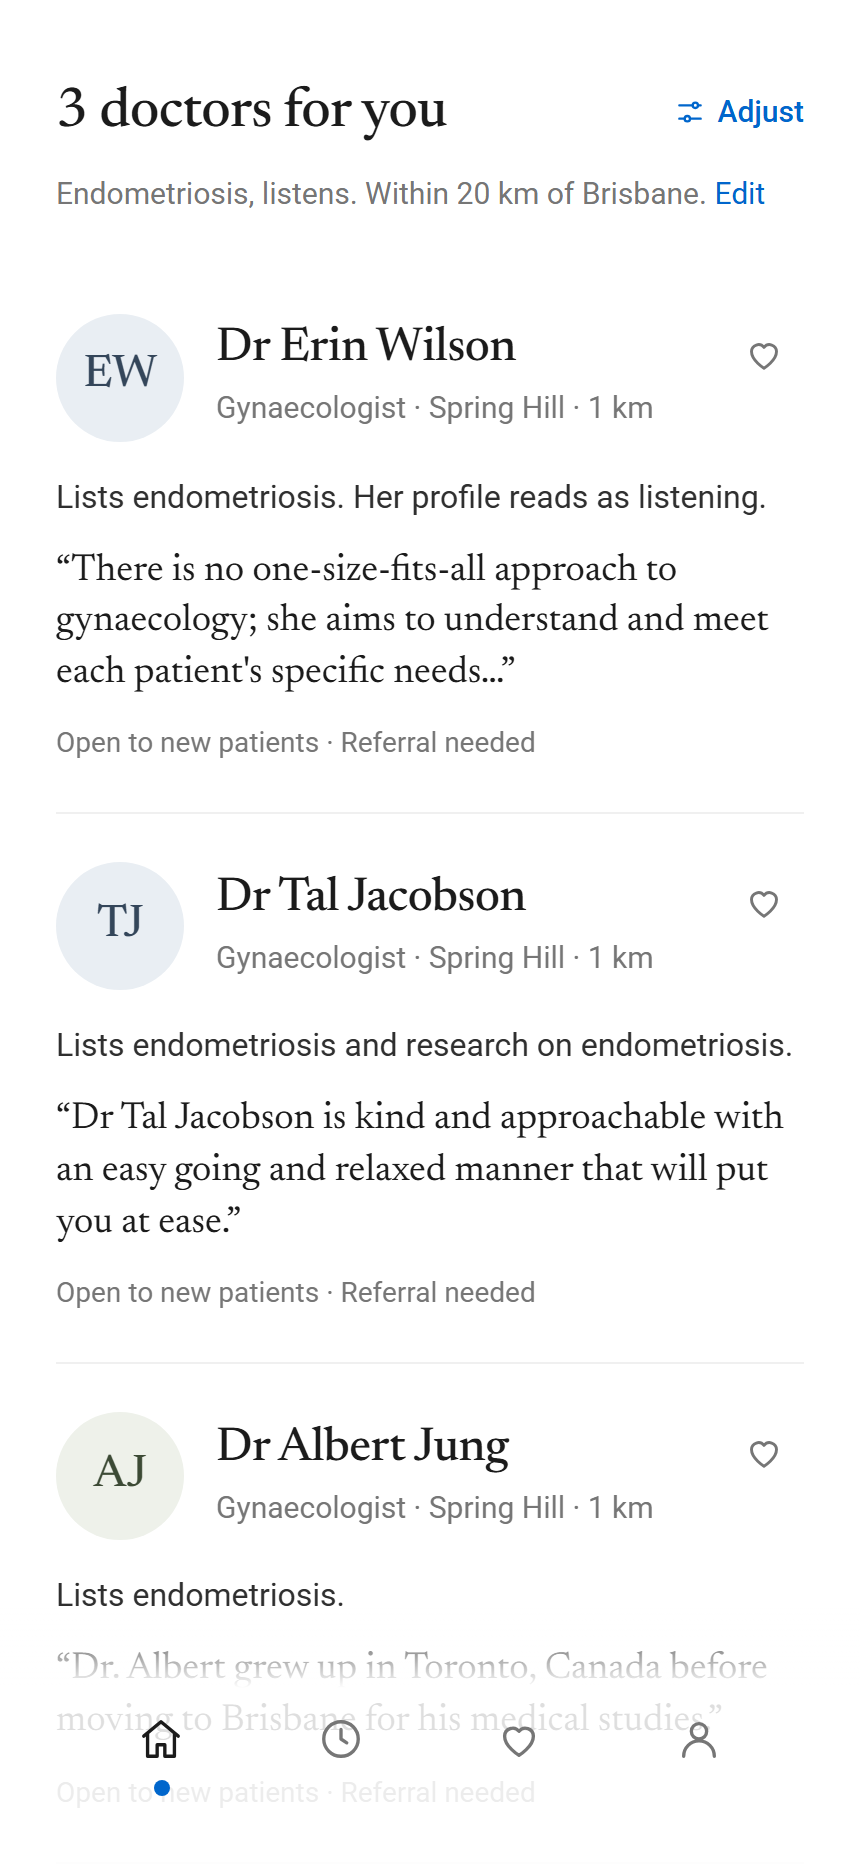
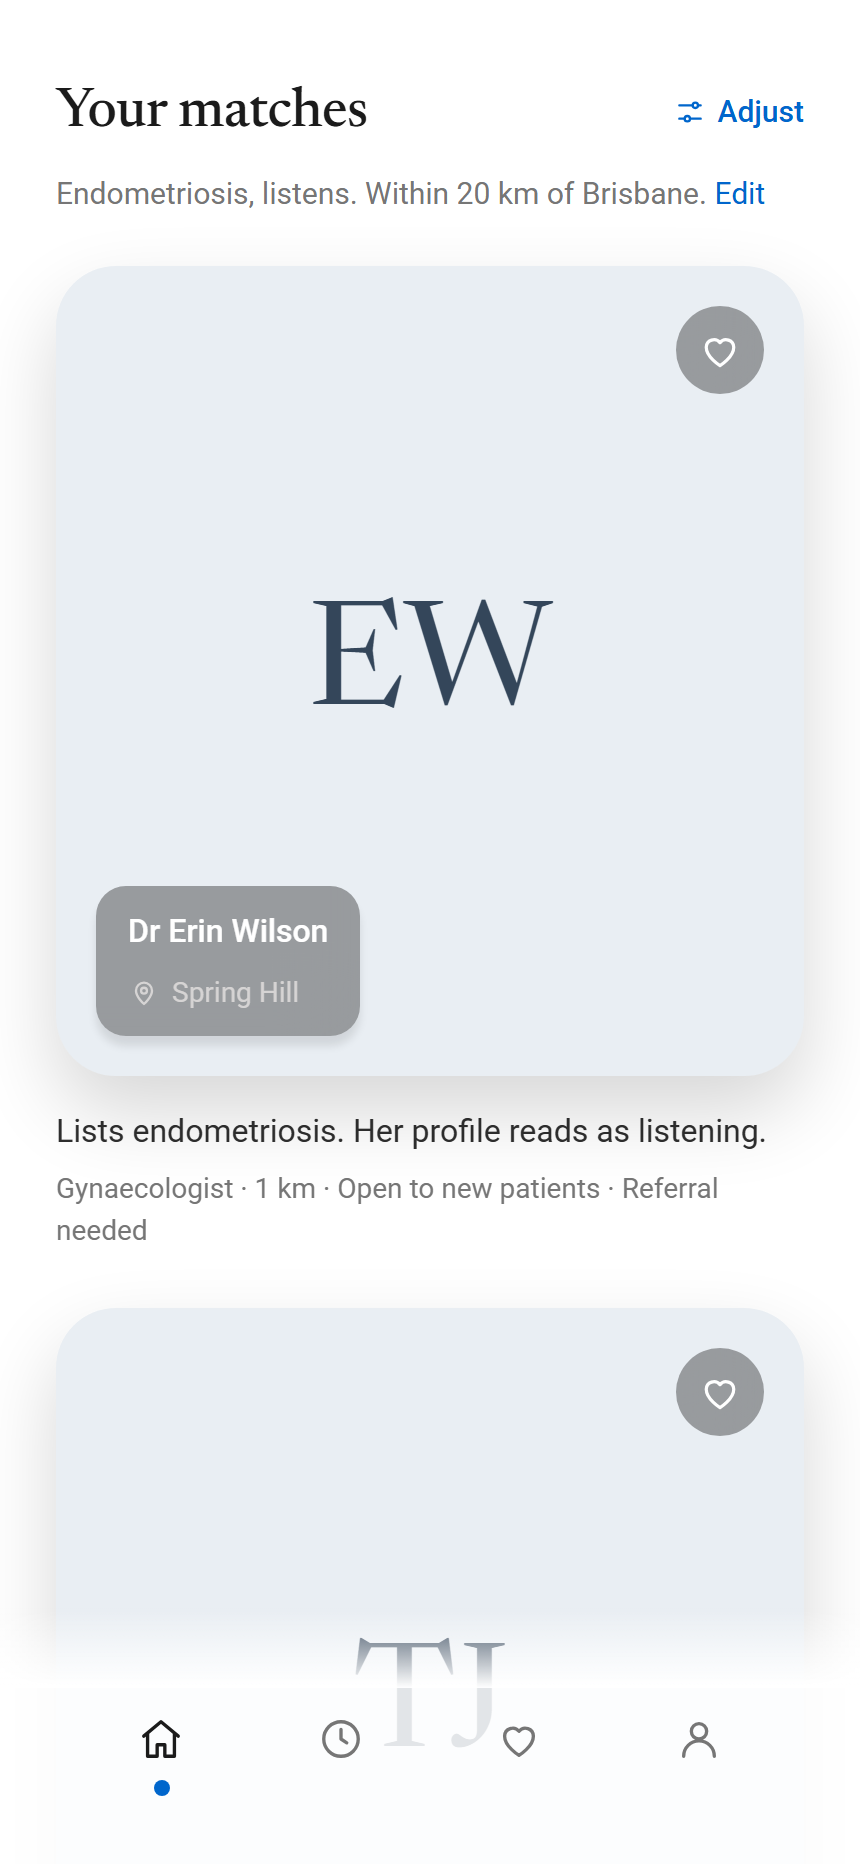
ui: results card rebuilt to Figma P05 (226:15): 405 photo card r30, blurred caption, heart circle; photo field on the record with portrait loader; profile header and saved use the portrait

diff --git a/src/ui/screens/patient-a/DoctorCard.tsx b/src/ui/screens/patient-a/DoctorCard.tsx
@@ -1,22 +1,25 @@
 "use client";
-// A result card, editorial (2026-10-16 v4, after the founder's "cluttered" verdict): avatar,
-// serif name, one line of where, one sentence of why this doctor fits in closed vocabulary,
-// one quote in their published words, one practical line. No chips. The card opens the profile.
+// P05 "Your matches" card (Figma 226:15, re-read 2026-10-16): a 405-tall photo with a 30 px
+// radius and the photo shadow, a blurred caption bottom-left (name 16 medium, map-pin + suburb
+// 14 in #cac8c8) and a blurred heart circle top-right. Under it, one sentence of why this
+// doctor fits, in closed vocabulary, and the practical line. The portrait is the one the
+// practice publishes on the page we cite; without one the card carries the doctor's initials
+// on their tint. The whole card opens the profile.
 import Link from "next/link";
 import type { Card } from "@/src/data/search-types";
 import type { DoctorRecord } from "@/src/data/types";
 import { doctorHref } from "@/src/data/doctor-slug";
-import { Avatar, Heart } from "@/src/ui/kit";
-import { clip, drName, listSentence, practicalChips, pronouns, quoteOf, specialtyTitle } from "@/src/ui/screens/patient-b/facts";
+import { Heart, MapPin, initialsFor, tintFor } from "@/src/ui/kit";
+import { drName, listSentence, practicalChips, pronouns, specialtyTitle } from "@/src/ui/screens/patient-b/facts";
 import { listedOnly, matchChips } from "./card";
-import { placeLine, suburbOf } from "./lib";
+import { suburbOf } from "./lib";
 
 const GERUND: Record<string, string> = { listens: "listening", direct: "direct", gentle: "gentle", collaborative: "collaborative" };
 const gerund = (s: string) => GERUND[s] ?? s;
 const HUMAN = /listens|collaborative|evidence|whole-person|gentle|direct|lived experience|affirming|culturally|research-active|longer|trauma/i;
 
-/** "Lists endometriosis and pelvic pain and reads as collaborative." from the engine's reasons. */
-function fitSentence(card: Card, labels: Record<string, string>): string {
+/** "Lists endometriosis. Her profile reads as listening." from the engine's reasons. */
+export function fitSentence(card: Card, labels: Record<string, string>): string {
   if (listedOnly(card)) return `Listed under ${specialtyTitle(card.doctor.specialty).toLowerCase()}, no documented focus on this yet.`;
   const chips = matchChips(card, 4);
   const clinical = chips.filter((c) => !HUMAN.test(c));
@@ -32,32 +35,63 @@ function fitSentence(card: Card, labels: Record<string, string>): string {
   return parts.join(" ");
 }
 
+/** The P05 photo block on its own, reused by Saved. */
+export function Portrait({ d, height = 405, saved, onSave }: { d: DoctorRecord; height?: number; saved?: boolean; onSave?: () => void }) {
+  const name = drName(d);
+  const [bg, fg] = tintFor(name);
+  const suburb = d.rooms.find((r) => r.state === "QLD")?.suburb ?? d.rooms[0]?.suburb ?? null;
+  return (
+    <div className="relative w-full overflow-hidden rounded-[30px] shadow-photo" style={{ height, background: d.photo ? "#e9e9e9" : bg }}>
+      {d.photo ? (
+        // eslint-disable-next-line @next/next/no-img-element
+        <img src={d.photo.url} alt={d.photo.alt ?? name} loading="lazy" referrerPolicy="no-referrer" className="absolute inset-0 size-full object-cover object-top" />
+      ) : (
+        <span aria-hidden="true" className="absolute inset-0 flex items-center justify-center font-display text-[72px]" style={{ color: fg }}>
+          {initialsFor(name)}
+        </span>
+      )}
+      {onSave ? (
+        <button
+          type="button"
+          aria-label={saved ? "Remove from saved" : "Save"}
+          aria-pressed={saved}
+          onClick={(e) => {
+            e.preventDefault();
+            e.stopPropagation();
+            onSave();
+          }}
+          className="press absolute right-5 top-5 inline-flex size-11 items-center justify-center rounded-full bg-caption text-white backdrop-blur-[20px]"
+        >
+          <Heart size={22} fill={saved ? "currentColor" : "none"} />
+        </button>
+      ) : null}
+      <div className="absolute bottom-5 left-5 flex h-[75px] max-w-[calc(100%-40px)] items-center rounded-[15px] bg-caption px-4 py-3 text-white shadow-[0_5px_4.5px_rgba(0,0,0,0.1)] backdrop-blur-[20px]">
+        <span className="flex min-w-0 flex-col gap-2">
+          <span className="truncate text-[16px] font-medium leading-normal">{name}{d.synthetic ? " (example)" : ""}</span>
+          {suburb ? (
+            <span className="inline-flex items-center gap-1.5 text-[14px] leading-normal text-caption-text">
+              <MapPin size={16} />
+              <span className="truncate">{suburb}</span>
+            </span>
+          ) : null}
+        </span>
+      </div>
+    </div>
+  );
+}
+
 export function DoctorCard({ card, labels, saved, onSave, index = 0 }: { card: Card; labels: Record<string, string>; saved: boolean; onSave: () => void; index?: number }) {
   const d: DoctorRecord = card.doctor;
-  const name = drName(d);
-  const near = card.distanceKm !== undefined && card.distanceKm <= 20;
-  const place = near ? suburbOf(card) : placeLine(card);
   const km = card.distanceKm !== undefined ? `${Math.max(1, Math.round(card.distanceKm))} km` : d.telehealth.value === "only" ? "telehealth" : null;
-  const where = [specialtyTitle(d.specialty), place, km].filter(Boolean).join(" · ");
-  const quote = quoteOf(d, 30);
-  const practical = practicalChips(d).slice(0, 3);
-
+  const where = [specialtyTitle(d.specialty), km].filter(Boolean).join(" · ");
+  const practical = [where, ...practicalChips(d).slice(0, 2)].filter(Boolean);
+  void suburbOf;
   return (
-    <article className="rise relative border-b border-divider py-6" style={{ "--i": index } as React.CSSProperties}>
-      <button type="button" aria-label={saved ? "Remove from saved" : "Save"} aria-pressed={saved} onClick={onSave} className={`press absolute right-0 top-6 inline-flex size-10 items-center justify-center rounded-full ${saved ? "text-ink" : "text-grey"}`}>
-        <Heart size={20} fill={saved ? "currentColor" : "none"} />
-      </button>
+    <article className="rise" style={{ "--i": index } as React.CSSProperties}>
       <Link href={doctorHref(d.id)} className="press press-soft block">
-        <div className="flex items-center gap-4 pr-12">
-          <Avatar name={name} size={64} />
-          <div className="flex min-w-0 flex-col gap-1">
-            <h3 className="display line-clamp-2 text-[24px] leading-[1.1] text-ink">{name}{d.synthetic ? " (example)" : ""}</h3>
-            <p className="truncate text-[15px] text-grey">{where}</p>
-          </div>
-        </div>
+        <Portrait d={d} saved={saved} onSave={onSave} />
         <p className="mt-4 text-[16px] leading-[1.5] text-charcoal">{fitSentence(card, labels)}</p>
-        {quote ? <p className="mt-3 font-display text-[19px] leading-[1.35] text-ink">“{clip(quote.text, 120)}”</p> : null}
-        {practical.length > 0 ? <p className="mt-3 text-[14px] text-grey">{practical.join(" · ")}</p> : null}
+        <p className="mt-1.5 text-[14px] text-grey">{practical.join(" · ")}</p>
       </Link>
     </article>
   );

diff --git a/src/ui/screens/patient-b/Tabs.tsx b/src/ui/screens/patient-b/Tabs.tsx
@@ -6,11 +6,12 @@ import { useEffect, useState } from "react";
 import { lookup } from "@/src/data/api";
 import { doctorHref } from "@/src/data/doctor-slug";
 import type { DoctorRecord } from "@/src/data/types";
-import { Avatar, Body, Chip, Chips, Divider, FieldBox, FigmaIcon, Heart, Row, Screen, SectionTitle, TabBar } from "@/src/ui/kit";
+import { Body, Divider, FieldBox, FigmaIcon, Row, Screen, SectionTitle, TabBar } from "@/src/ui/kit";
+import { Portrait } from "@/src/ui/screens/patient-a/DoctorCard";
 import Link from "next/link";
 import { getName, getRecent, getRequest, getSavedIds, setName, setRequest, toggleSavedId, type RecentSearch } from "@/src/ui/store";
 import { Space } from "./bits";
-import { drName, placeOf, practicalChips, quoteOf, specialtyTitle } from "./facts";
+import { placeOf, practicalChips, quoteOf, specialtyTitle } from "./facts";
 
 const day = (iso: string) => {
   const d = new Date(iso);
@@ -65,7 +66,7 @@ export function Saved() {
       <SectionTitle>Saved</SectionTitle>
       <Space h={24} />
       {ids && ids.length === 0 ? <Body>Nothing saved yet.</Body> : null}
-      <div className="flex flex-col gap-4">
+      <div className="flex flex-col gap-7">
         {doctors.map((d, i) => (
           <SavedCard key={d.id} doctor={d} index={i} onRemove={() => remove(d.id)} />
         ))}
@@ -110,30 +111,14 @@ export function Me() {
 }
 
 function SavedCard({ doctor: d, index, onRemove }: { doctor: DoctorRecord; index: number; onRemove: () => void }) {
-  const name = drName(d);
   const quote = quoteOf(d);
-  const practical = practicalChips(d);
+  const practical = [specialtyTitle(d.specialty), placeOf(d), ...practicalChips(d).slice(0, 2)].filter(Boolean);
   return (
-    <article className="rise relative rounded-[20px] border border-hairline bg-white p-5" style={{ "--i": index } as React.CSSProperties}>
-      <button type="button" aria-label="Remove from saved" onClick={onRemove} className="press absolute right-4 top-4 inline-flex size-10 items-center justify-center rounded-full bg-accent-soft text-accent">
-        <Heart size={20} fill="currentColor" />
-      </button>
+    <article className="rise" style={{ "--i": index } as React.CSSProperties}>
       <Link href={doctorHref(d.id)} className="press press-soft block">
-        <div className="flex items-center gap-4 pr-12">
-          <Avatar name={name} size={56} />
-          <div className="flex min-w-0 flex-col gap-1">
-            <h3 className="display truncate text-[19px] leading-tight text-ink">{name}</h3>
-            <p className="truncate text-[14px] text-grey">{[specialtyTitle(d.specialty), placeOf(d)].join(" · ")}</p>
-          </div>
-        </div>
-        {quote ? <p className="mt-4 text-[16px] leading-[1.5] text-charcoal">“{quote.text}”</p> : null}
-        {practical.length > 0 ? (
-          <Chips className="mt-3">
-            {practical.map((f) => (
-              <Chip key={f} tone="line">{f}</Chip>
-            ))}
-          </Chips>
-        ) : null}
+        <Portrait d={d} height={300} saved onSave={onRemove} />
+        {quote ? <p className="mt-4 font-display text-[19px] leading-[1.35] text-ink">“{quote.text}”</p> : null}
+        <p className="mt-2 text-[14px] text-grey">{practical.join(" · ")}</p>
       </Link>
     </article>
   );

diff --git a/src/data/published.ts b/src/data/published.ts
@@ -63,6 +63,18 @@ export function nameKey(name: string): string {
     .trim();
 }
 
+type Portrait = { name: string; specialty?: string; source_url: string; photo_url: string | null; alt?: string | null };
+
+/** data/enriched/personal/portraits.json: practice-site portraits by doctor, keyed on name. */
+export function readPortraits(root = process.cwd()): Map<string, Portrait> {
+  const file = path.join(root, "data", "enriched", "personal", "portraits.json");
+  const out = new Map<string, Portrait>();
+  if (!existsSync(file)) return out;
+  const parsed = JSON.parse(readFileSync(file, "utf8")) as { portraits?: Portrait[] };
+  for (const p of parsed.portraits ?? []) if (p.photo_url && /^https?:\/\//.test(p.photo_url)) out.set(nameKey(p.name), p);
+  return out;
+}
+
 export function readResearch(root = process.cwd()): ResearchedDoctor[] {
   const dir = path.join(root, "data", "enriched", "personal");
   if (!existsSync(dir)) return [];
@@ -208,8 +220,12 @@ function newRecord(d: ResearchedDoctor, discipline: Discipline): DoctorRecord {
  * else append. Every result carries `personal.status: "published"` with its source URL, and the
  * Layer-2 labels derived from the published words.
  */
-export function withPublished(doctors: DoctorRecord[], discipline: Discipline, researched: ResearchedDoctor[] = readResearch()): DoctorRecord[] {
+export function withPublished(doctors: DoctorRecord[], discipline: Discipline, researched: ResearchedDoctor[] = readResearch(), portraits: Map<string, Portrait> = readPortraits()): DoctorRecord[] {
   if (researched.length === 0) return doctors;
+  const photoFor = (r: ResearchedDoctor) => {
+    const p = portraits.get(nameKey(r.name));
+    return p?.photo_url ? { url: p.photo_url, sourceUrl: p.source_url, ...(p.alt ? { alt: p.alt } : {}) } : undefined;
+  };
   const byKey = new Map<string, DoctorRecord>();
   for (const d of doctors) byKey.set(`${d.specialty}|${nameKey(d.name.display)}`, d);
   const out = doctors.slice();
@@ -230,12 +246,16 @@ export function withPublished(doctors: DoctorRecord[], discipline: Discipline, r
       }
       applyFacts(record, r, src, discipline);
       record.personal = personalOf(r);
+      const photo = photoFor(r);
+      if (photo) record.photo = photo;
       out[idx] = withPersonalLabels(record, discipline) as DoctorRecord;
       byKey.set(key, out[idx]!);
     } else {
       const fresh = newRecord(r, discipline);
       if (added.has(fresh.id) || byKey.has(key)) continue;
       fresh.personal = personalOf(r);
+      const photo = photoFor(r);
+      if (photo) fresh.photo = photo;
       const labelled = withPersonalLabels(fresh, discipline) as DoctorRecord;
       out.push(labelled);
       byKey.set(key, labelled);

diff --git a/src/ui/screens/patient-a/Matches.tsx b/src/ui/screens/patient-a/Matches.tsx
@@ -53,7 +53,7 @@ export function Matches() {
   return (
     <Screen padBottom="pb-[110px]">
       <div className="flex items-center justify-between">
-        <h1 className="display text-[28px] tracking-[-0.02em] text-ink">{cards.length > 0 ? `${cards.length} ${cards.length === 1 ? "doctor" : "doctors"} for you` : "Your matches"}</h1>
+        <h1 className="display text-[28px] tracking-[-0.02em] text-ink">Your matches</h1>
         <Link href="/adjust" className="press-dim -mr-2 inline-flex h-11 items-center gap-1.5 px-2 text-[15px] font-medium text-accent"><Sliders size={16} />Adjust</Link>
       </div>
       {req ? (
@@ -77,7 +77,7 @@ export function Matches() {
       {res && cards.length === 0 ? (
         <Empty res={res} place={place} busy={busy} onWiden={() => void rerun({ anywhere: true })} onTelehealth={() => void rerun({ sentence: `${req!.sentence}, telehealth only` })} onChange={() => router.push("/")} onClosest={() => void rerun({ anywhere: true })} />
       ) : null}
-      <div className="flex flex-col" style={busy ? { opacity: 0.5, transition: "opacity 150ms ease" } : { transition: "opacity 150ms ease" }}>
+      <div className="flex flex-col gap-7" style={busy ? { opacity: 0.5, transition: "opacity 150ms ease" } : { transition: "opacity 150ms ease" }}>
         {cards.map((card, i) => (
           <DoctorCard key={card.doctor.id} card={card} labels={labels} index={i} saved={saved.includes(card.doctor.id)} onSave={() => setSaved(toggleSavedId(card.doctor.id))} />
         ))}

diff --git a/src/ui/screens/patient-b/Profile.tsx b/src/ui/screens/patient-b/Profile.tsx
@@ -23,7 +23,12 @@ function Header({ d }: { d: DoctorRecord }) {
       </div>
       <Space h={24} />
       <div className="flex items-center gap-4">
-        <Avatar name={name} size={88} />
+        {d.photo ? (
+          // eslint-disable-next-line @next/next/no-img-element
+          <img src={d.photo.url} alt={d.photo.alt ?? name} referrerPolicy="no-referrer" className="size-[88px] shrink-0 rounded-full object-cover object-top" style={{ background: "#e9e9e9" }} />
+        ) : (
+          <Avatar name={name} size={88} />
+        )}
         <div className="flex min-w-0 flex-col gap-1">
           <h1 className="display text-[30px] leading-[1.1] tracking-[-0.01em] text-ink">{name}{d.synthetic ? " (example)" : ""}</h1>
           <p className="text-[14px] leading-snug text-grey">{line}</p>

diff --git a/src/data/types.ts b/src/data/types.ts
@@ -45,6 +45,8 @@ export interface DoctorRecord extends Doctor {
   rooms: Room[];
   /** A stated limit on who the practice sees ("healthcare workers and carers only"), shown wherever the doctor is. */
   scopeNote?: string;
+  /** The doctor's portrait as published on their own practice page, hotlinked with attribution (founder instruction 2026-10-16). */
+  photo?: { url: string; sourceUrl: string; alt?: string };
   sources: SourceRef[];
   publications: Publication[];
 }

diff --git a/src/ui/kit/bits.tsx b/src/ui/kit/bits.tsx
@@ -27,7 +27,7 @@ const TINTS = [
   ["#f2ebee", "#5a3744"],
   ["#eeeaf3", "#43395a"],
 ] as const;
-function tintFor(name: string): readonly [string, string] {
+export function tintFor(name: string): readonly [string, string] {
   let h = 0;
   for (const ch of name) h = (h * 31 + ch.charCodeAt(0)) | 0;
   return TINTS[Math.abs(h) % TINTS.length]!;
